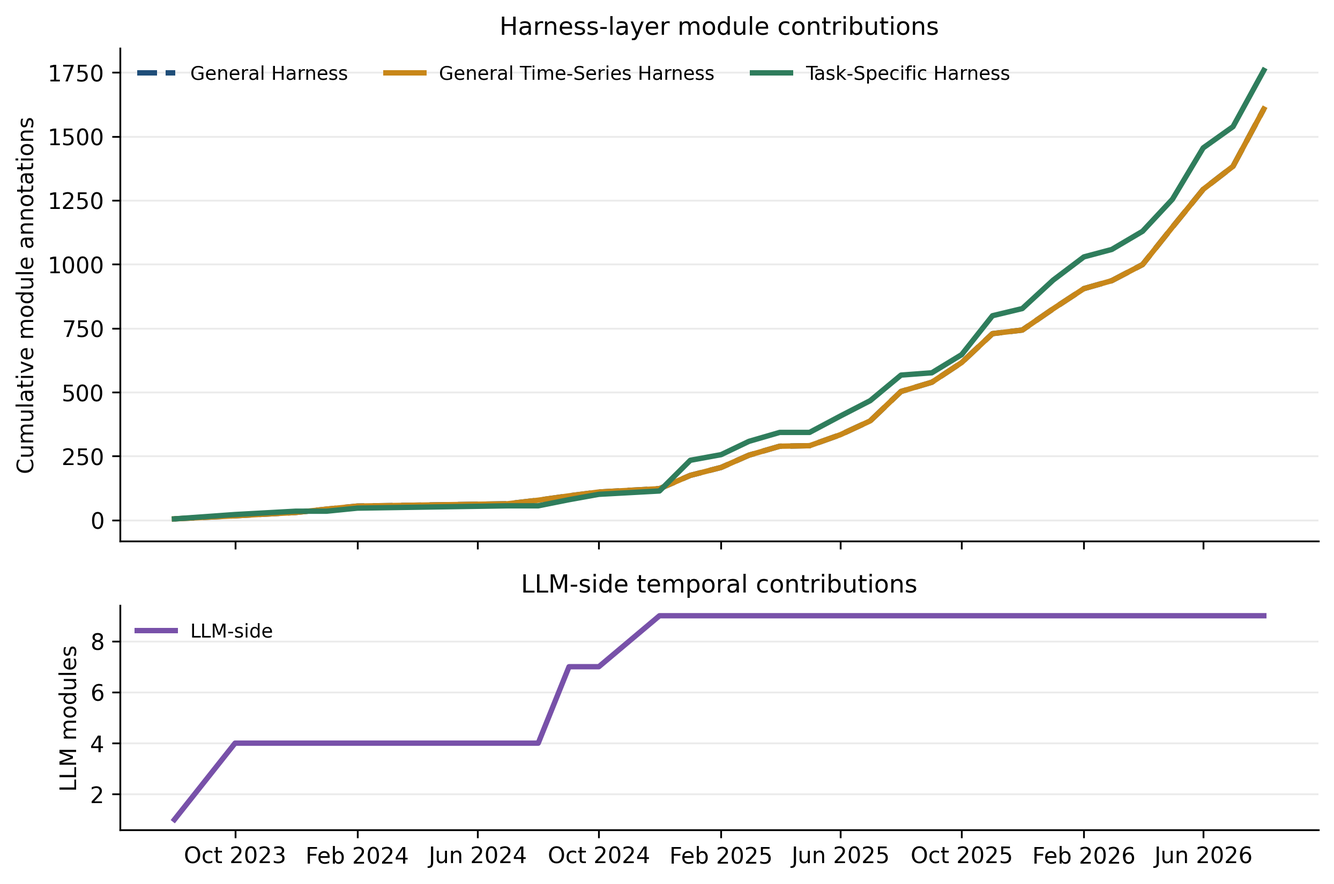
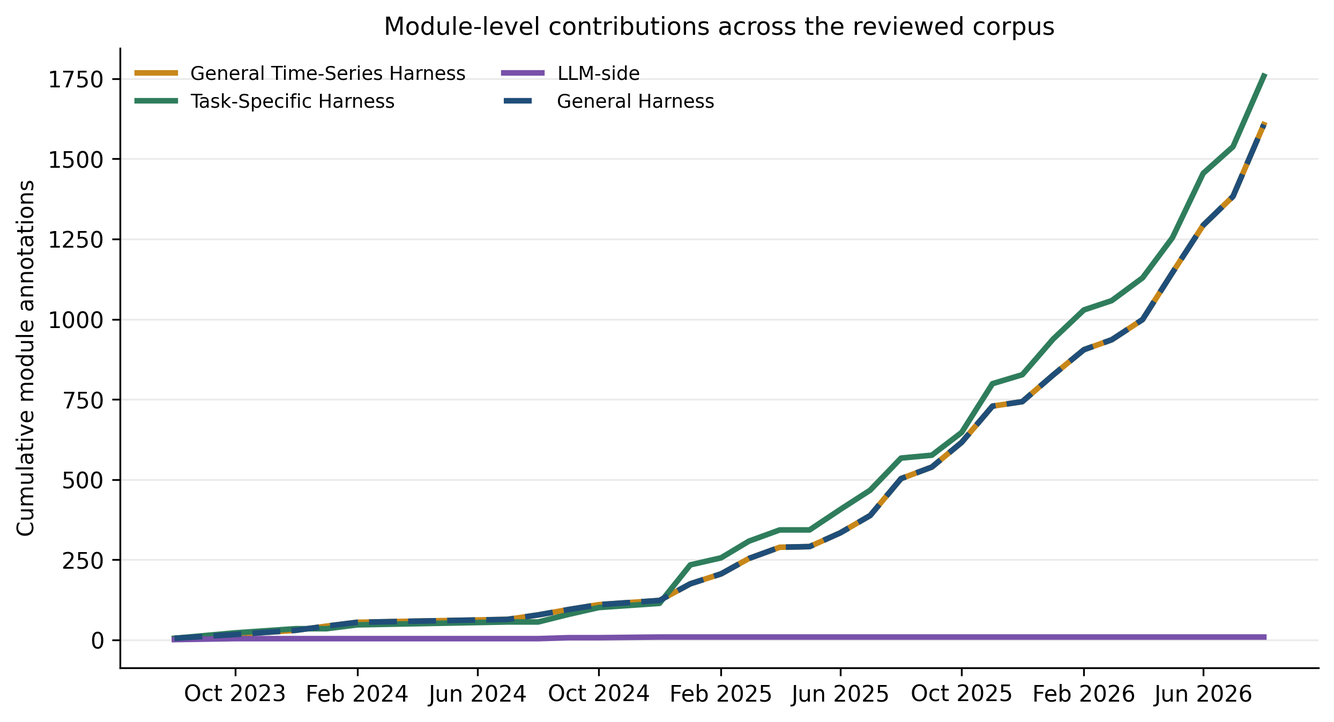
refine survey comparison and harness explanations

diff --git a/main.tex b/main.tex
@@ -109,6 +109,8 @@
 \newcommand{\typeBench}{\textsf{Benchmark}}
 \newcommand{\typeSMshort}{\textsf{S--M}}
 \newcommand{\typeBenchshort}{\textsf{Bench}}
+\newcommand{\yes}{\textcolor{surveyGreen}{\ensuremath{\checkmark}}}
+\newcommand{\no}{\textcolor{surveyGold}{\ensuremath{\times}}}
 \newcommand{\selfclaim}{\textsuperscript{\dag}}
 \newcommand{\RepoMoirai}{\textsuperscript{a}}
 \newcommand{\RepoLLMTSFD}{\textsuperscript{b}}
@@ -168,11 +170,8 @@ LLM agents provide a natural system abstraction for this broader workflow. In th
   bottom=10pt
 ]
 \[
-\begin{aligned}
-\textbf{LLM-based agent system} &\approx \text{LLM}+\text{Harness},\\
-\textbf{Time-Series Agent} &\approx \text{LLM}+\text{General Harness}\\
-&\quad +\text{Time-Series Harness Module}.
-\end{aligned}
+\resizebox{\linewidth}{!}{$\textbf{LLM-based agent} \approx \text{LLM}+\text{Harness},\qquad
+\textbf{Time-Series Agent} \approx \text{LLM}+\text{General Harness}+\text{Time-Series Harness Module}$.}
 \]
 \end{tcolorbox}
 
@@ -219,30 +218,29 @@ Several system and position papers further motivate this runtime perspective. AT
 
 \begingroup
 \scriptsize
-\setlength{\tabcolsep}{2.5pt}
-\renewcommand{\arraystretch}{1.08}
-\begin{longtable}{L{\fulltextcol{0.16}} L{\fulltextcol{0.19}} L{\fulltextcol{0.24}} L{\fulltextcol{0.20}} L{\fulltextcol{0.21}}}
-\caption{Comparison with related surveys and representative runtime frameworks.}
-\label{tab:direct-prior-comparison}\\
+\setlength{\tabcolsep}{3.5pt}
+\renewcommand{\arraystretch}{1.15}
+\begin{longtable}{L{\fulltextcol{0.22}} C{\fulltextcol{0.10}} C{\fulltextcol{0.09}} C{\fulltextcol{0.11}} C{\fulltextcol{0.12}} C{\fulltextcol{0.11}} C{\fulltextcol{0.12}} C{\fulltextcol{0.13}}}
+\caption{Coverage comparison with related surveys. A checkmark denotes an explicit organizing element; a cross denotes that the element is not the survey's organizing unit. ``Ours'' refers to this survey.}\label{tab:direct-prior-comparison}\\
 \toprule
-\textbf{Work} & \textbf{Scope / unit} & \textbf{Main organizing lens} & \textbf{Protocol / artifact} & \textbf{Relation to this survey}\\
+\textbf{Work} & \textbf{Agent runtime} & \textbf{LLM side} & \textbf{7 GH dims.} & \textbf{GTS/TSK} & \textbf{4 task families} & \textbf{Benchmarks} & \textbf{Module ledger}\\
 \midrule
 \endfirsthead
 \toprule
-\textbf{Work} & \textbf{Scope / unit} & \textbf{Main organizing lens} & \textbf{Protocol / artifact} & \textbf{Relation to this survey}\\
+\textbf{Work} & \textbf{Agent runtime} & \textbf{LLM side} & \textbf{7 GH dims.} & \textbf{GTS/TSK} & \textbf{4 task families} & \textbf{Benchmarks} & \textbf{Module ledger}\\
 \midrule
 \endhead
-From Prompts to Agents \citep{promptstoagents2026} & LLM-driven TS papers and methods & Passive prompting versus agentic systems; planning, reasoning, memory, tools, refinement & Survey and maintained resource repository & Maps paradigms and visible components rather than assigning a primary runtime contribution locus.\\
-Chang et al. \citep{changsurvey2026} & More than 100 TS-reasoning papers & One topology and one primary objective per paper, plus non-exclusive attribute tags & Explicit taxonomy and label definitions, work-level assignments, and repository & Closest primary-label precedent; codes execution topology and intent rather than contribution locus.\\
-LLM Agents for Time-Series \citep{chen2026tsagentsurvey} & Time-series agent literature & Agent architectures, task settings, evaluation, and research challenges & Survey of the emerging time-series-agent field & Broad field map; not a work-level primary-contribution-locus protocol.\\
-LLM-based Agents for Forecasting and Prediction \citep{xu2026forecastagentsurvey} & Forecasting and prediction agents & Methods, training, evaluation, and applications & Forecasting/prediction-focused survey & Narrows on forecasting and prediction agents rather than the cross-task runtime-locus question.\\
-ATSF \citep{atsf2026} & Forecasting process / position paper & Perception, planning, action, reflection, memory; workflow/RL/hybrid paradigms & Position and project resource, not a survey corpus & Articulates a forecasting-side agentic process framing; it is not designed as a cross-task literature-coding study.\\
-AION \citep{aion2026} & Realistic TS task and practical Harness & Task file, workspace, validation interface; Harness groups and review principles & Executable Harness, artifacts, traces, validation, case study & Builds one practical Harness; it is not designed to classify primary contributions across papers.\\
-TimeClaw \citep{timeclaw2026harness} & Contextualized TS task, trajectory, and memory & Executable temporal tools, capability evolution, episodic multimodal memory & Reference implementation, trajectories, memory banks, multi-benchmark evaluation & Implements a cross-task native runtime; it is not designed as a literature locus protocol.\\
-This survey & Enumerated cross-task work snapshot & Primary contribution locus (GH/GTS/TSK) plus secondary descriptions; seven-dimension/6-obligation crosswalk & Screening criteria, rubric, versioned ledger, evidence matrix, model sensitivity probes & Operationalizes and applies a literature-level attribution protocol rather than proposing the Harness concept itself.\\
+From Prompts to Agents \citep{promptstoagents2026} & \yes & \yes & \no & \no & \no & \no & \no\\
+Chang et al. \citep{changsurvey2026} & \yes & \yes & \no & \no & \no & \yes & \no\\
+LLM Agents for Time-Series \citep{chen2026tsagentsurvey} & \yes & \yes & \no & \no & \yes & \yes & \no\\
+LLM-based Agents for Forecasting \citep{xu2026forecastagentsurvey} & \yes & \yes & \no & \no & \no & \yes & \no\\
+This survey (\textbf{Ours}) & \yes & \yes & \yes & \yes & \yes & \yes & \yes\\
 \bottomrule
 \end{longtable}
 \endgroup
+
+\noindent\textit{Reading the table.} Existing surveys provide complementary views: agent mechanisms, reasoning topologies, task maps, or forecasting lifecycles. Our comparison adds an explicit runtime decomposition, a seven-dimension General Harness layer, a General-versus-Task-Specific Time-Series Harness distinction, a multi-label task view, and a module-level evidence ledger.
+
 
 The recent survey by Xu et al. organizes LLM-based forecasting and prediction agents around standalone LLMs, tool- and retrieval-augmented systems, and hybrid systems, while connecting methods to training, evaluation, applications, and risks \citep{xu2026forecastagentsurvey}. We include it as a direct competitor survey because it provides a forecasting-centered systems map and a careful account of contamination, leakage, calibration, cost, and deployment feedback. Its organizing unit is the forecasting/prediction system and its lifecycle; our organizing unit is the contribution locus of the underlying Harness. Thus its three system types are compatible with, but orthogonal to, our GH/GTS/TSK labels: a tool-augmented forecasting system may contribute to GH, GTS, TSK, or several of them depending on which mechanism the paper actually changes.
 
@@ -269,25 +267,7 @@ This survey makes four contributions.
 
 \section{What Is a Time-Series Agent?}
 
-A Time-Series Agent is a system in which an LLM operates through a reusable runtime and time-series-specific modules:
-
-\begin{tcolorbox}[
-  colback=surveyWarn,
-  colframe=surveyWarn,
-  boxrule=0pt,
-  arc=7pt,
-  left=12pt,
-  right=12pt,
-  top=10pt,
-  bottom=10pt
-]
-\[
-\begin{aligned}
-\textbf{Time-Series Agent}={}&\textbf{LLM}+\textbf{General Harness}\\
-&+\textbf{Time-Series Harness Module}.
-\end{aligned}
-\]
-\end{tcolorbox}
+A Time-Series Agent is a system in which an LLM operates through a reusable runtime and time-series-specific modules.
 
 The LLM supplies language understanding and reasoning. The General Harness supplies interaction, memory, tools, execution, control, planning, optimization, and coordination. The Time-Series Harness Module preserves temporal state, operations, context, and validation; statistical models, time-series foundation models, databases, simulators, retrieval systems, and evaluators operate as callable components within it.
 
@@ -344,63 +324,63 @@ The seven dimensions organize the evidence below. Each subsection first states t
 
 \subsection{Interface and Interaction}
 
-Inference interfaces expose the model's input state and intermediate reasoning; action interfaces turn a decision into a tool call or executable operation; environment modeling represents observations, artifacts, and feedback; user interaction supports natural-language requests and review; and the state--action loop connects successive steps. TS-Agent, TimeART, and TSAG instantiate these mechanisms with temporal analysis requests and executable analytical tools \citep{tsagent2025,timeart2026,tsag2026}.
+Inference interfaces expose the model's input state and intermediate reasoning; action interfaces turn a decision into a tool call or executable operation; environment modeling represents observations, artifacts, and feedback; user interaction supports natural-language requests and review; and the state--action loop connects successive steps. These interfaces define the boundary between a model response and an executable Agent action: they specify what state is visible, which actions are legal, and what result is returned for the next step. TS-Agent provides executable analysis actions; TimeART binds temporal analysis to a tool-using workflow; and TSAG couples temporal questions with structured analytical operations \citep{tsagent2025,timeart2026,tsag2026}. Together they show how a general interface becomes the entry point for a time-series-specific contract.
 
 \subsection{Memory and Context}
 
-Memory and context mechanisms preserve information across turns, retrieve prior cases, and expose relevant evidence. Time-series systems use event histories, prior trajectories, temporal fingerprints, and reusable analytical procedures in this layer \citep{agenticrag2024,timecap2025,timeclaw2026harness,forecastcompass2026}.
+Memory and context mechanisms preserve information across turns, retrieve prior cases, and expose relevant evidence. They can be working memory for the current trace, long-term memory for reusable experience, or shared state that coordinates several agents. Time-series systems use event histories, prior trajectories, temporal fingerprints, and reusable analytical procedures in this layer \citep{agenticrag2024,timecap2025,timeclaw2026harness,forecastcompass2026}.
 
 \subsection{Tools and Execution}
 
-Tools and execution expand the action space through code, statistical models, TSFMs, visualizers, retrievers, simulators, and validators. Forecasting and anomaly systems place these components behind callable interfaces so the LLM can select, execute, compare, and report them \citep{timeseriesscientist2025,timecopilot2026,argos2025,anomamind2026}.
+Tools and execution expand the action space through code, statistical models, TSFMs, visualizers, retrievers, simulators, and validators. A tool registry describes the inputs, outputs, permissions, and failure behavior of each capability; an execution environment then runs the call and returns an artifact or error that the Agent can inspect. Forecasting and anomaly systems place these components behind callable interfaces so the LLM can select, execute, compare, and report them \citep{timeseriesscientist2025,timecopilot2026,argos2025,anomamind2026}.
 
 \subsection{Control, Verification, and Feedback}
 
-Control and verification route feedback, enforce constraints, manage retries, and check intermediate or final artifacts. Representative systems use reflection, critic review, validation gates, and faithfulness checks to revise a trajectory or reject an invalid result \citep{flairr2025,tsag2026,veritime2026,tracebench2026}.
+Control and verification route feedback, enforce constraints, manage retries, and check intermediate or final artifacts. The controller determines when a trace may continue, when a tool must be retried, and when an output must be rejected or escalated. Representative systems use reflection, critic review, validation gates, and faithfulness checks to revise a trajectory or reject an invalid result \citep{flairr2025,tsag2026,veritime2026,tracebench2026}.
 
 \subsection{Planning and Workflow}
 
-Planning and workflow mechanisms decompose a request into data preparation, analysis, model selection, validation, reporting, and revision. Time-series agents use these mechanisms to connect tools and artifacts into a reproducible analysis procedure \citep{timeseriesscientist2025,timecap2025,climateagent2025,aion2026}.
+Planning and workflow mechanisms decompose a request into data preparation, analysis, model selection, validation, reporting, and revision. They make intermediate states explicit, choose a tool sequence, record stopping conditions, and preserve the artifacts required to reproduce the result. Time-series agents use these mechanisms to connect tools and artifacts into a reproducible analysis procedure \citep{timeseriesscientist2025,timecap2025,climateagent2025,aion2026}.
 
 \subsection{Optimization and Evolution}
 
-Optimization and evolution improve prompts, tools, policies, memories, or trajectories using feedback. TimeClaw, MetaCaster, CastFSR, and related systems treat experience, validation outcomes, or execution traces as material for capability improvement \citep{timeclaw2026explore,metacaster2026,castfsr2026,crafter2026}.
+Optimization and evolution improve prompts, tools, policies, memories, or trajectories using feedback. The update can be offline prompt or policy search, trajectory-level reflection, or a self-evolving Harness that promotes a new component after validation. TimeClaw, MetaCaster, CastFSR, and related systems treat experience, validation outcomes, or execution traces as material for capability improvement \citep{timeclaw2026explore,metacaster2026,castfsr2026,crafter2026}.
 
 \subsection{Coordination and Scaling}
 
-Coordination and scaling divide work among specialized roles, share state, and combine review or debate. Multi-agent time-series systems use numeric, visual, textual, analyst, reviewer, and executor roles to construct a joint result \citep{tsdebate2026,mas4ts2026,aimeteorologist2025,fincon2024}.
+Coordination and scaling divide work among specialized roles, share state, and combine review or debate. Coordination may be cooperative, competitive, or hierarchical; the shared state and handoff protocol determine whether the final result is consistent and auditable. Multi-agent time-series systems use numeric, visual, textual, analyst, reviewer, and executor roles to construct a joint result \citep{tsdebate2026,mas4ts2026,aimeteorologist2025,fincon2024}.
 \section{General Time-Series Harness}
 \label{sec:general-ts-harness}
 
-The General Time-Series Harness is the time-series specialization of the seven General Harness dimensions. We include a mechanism here only when its core representation, operation, or validator depends on temporal order, index, frequency, window, horizon, regime, availability time, or leakage control. A generic chat loop, Python call, or reflection step remains General Harness.
+The General Time-Series Harness is the time-series specialization of the seven General Harness dimensions. We include a mechanism here only when its core representation, operation, or validator depends on temporal order, index, frequency, window, horizon, regime, availability time, or leakage control. This criterion follows the temporal contracts emphasized in recent time-series-agent surveys and reasoning taxonomies \citep{chen2026tsagentsurvey,changsurvey2026}. A generic chat loop, Python call, or reflection step remains General Harness.
 
 \subsection{Interface and Interaction}
 
-Time-series interfaces expose as-of time, horizon, frequency, window, channel, and unit semantics. An action such as slice, align, aggregate, or forecast carries temporal arguments that determine what information is available and what output contract is produced.
+Time-series interfaces expose as-of time, horizon, frequency, window, channel, and unit semantics. An action such as slice, align, aggregate, or forecast carries temporal arguments that determine what information is available and what output contract is produced. Temporal analysis systems make these arguments explicit through executable requests and structured outputs \citep{tsagent2025,timeart2026,tsag2026}.
 
 \subsection{Memory and Context}
 
-Temporal memory preserves time-indexed state, missingness, provenance, data vintage, event history, and revision records. The state remains queryable as it was known at a declared time, which distinguishes it from an ordinary conversation buffer.
+Temporal memory preserves time-indexed state, missingness, provenance, data vintage, event history, and revision records. The state remains queryable as it was known at a declared time, which distinguishes it from an ordinary conversation buffer. Event histories, retrieved context, temporal fingerprints, and prior trajectories therefore become structured evidence that can be replayed and checked rather than an undifferentiated prompt. TimeClaw and ForecastCompass illustrate this direction through episodic experience and adaptive temporal memory, while financial systems use layered market memory to preserve point-in-time evidence \citep{timeclaw2026harness,forecastcompass2026,finmem2023,memcast2026}.
 
 \subsection{Tools and Execution}
 
-Time-series tools implement temporal slicing, resampling, aggregation, decomposition, backtesting, forecasting, anomaly localization, imputation, and context alignment. Their semantics must specify intervals, horizons, time zones, units, and missing-data behavior.
+Time-series tools implement temporal slicing, resampling, aggregation, decomposition, backtesting, forecasting, anomaly localization, imputation, and context alignment. Their semantics must specify intervals, horizons, time zones, units, and missing-data behavior. TimeSeriesScientist and TimeCopilot expose model and analysis selection as callable operations; related systems connect these operations to simulators, retrievers, or specialized temporal models \citep{timeseriesscientist2025,timecopilot2026,argos2025,anomamind2026}. The temporal tool boundary is consequently where numerical fidelity and chronological admissibility become executable checks.
 
 \subsection{Control, Verification, and Feedback}
 
-Temporal control checks chronological splits, allowed-context policies, leakage, units, frequency, drift, uncertainty, and evidence completeness. These checks operate on the temporal contract of the runtime, not only on the final task score.
+Temporal control checks chronological splits, allowed-context policies, leakage, units, frequency, drift, uncertainty, and evidence completeness. These checks operate on the temporal contract of the runtime, not only on the final task score. A validator can reject a future-leaking retrieval, an invalid window, an inconsistent unit conversion, or an unsupported probabilistic claim before the result reaches a user. AION, VeriTime, and TraceBench make this process-level view explicit through validation interfaces, temporal checks, and auditable traces \citep{aion2026,veritime2026,tracebench2026}.
 
 \subsection{Planning and Workflow}
 
-Temporal workflows schedule rolling-origin evaluation, horizon-aware model selection, context retrieval by availability time, forecast revision, incident escalation, and report generation. The planning state therefore carries temporal checkpoints and reproducible data boundaries.
+Temporal workflows schedule rolling-origin evaluation, horizon-aware model selection, context retrieval by availability time, forecast revision, incident escalation, and report generation. The planning state therefore carries temporal checkpoints and reproducible data boundaries. ATSF frames forecasting as an iterative perception--planning--action--reflection--memory process, while AION and ForecastCompass connect task files, adaptive memory, model selection, and validation into a repeatable workflow \citep{atsf2026,aion2026,forecastcompass2026}.
 
 \subsection{Optimization and Evolution}
 
-Temporal optimization uses regimes, temporal experience, shifting distributions, and revision outcomes to update prompts, tools, memories, or policies. A reusable mechanism must preserve its temporal contract when the downstream task changes.
+Temporal optimization uses regimes, temporal experience, shifting distributions, and revision outcomes to update prompts, tools, memories, or policies. A reusable mechanism must preserve its temporal contract when the downstream task changes. TimeClaw, MetaCaster, and CastFSR treat execution experience, validation outcomes, or traces as signals for improving temporal capabilities; the update itself must remain auditable under distribution shift \citep{timeclaw2026explore,metacaster2026,castfsr2026,crafter2026}.
 
 \subsection{Coordination and Scaling}
 
-Multi-agent temporal coordination shares aligned series, event windows, provenance, and evidence identifiers across numeric, visual, textual, planning, and review roles. Without a common temporal state, coordination can produce internally consistent but temporally misaligned conclusions.
+Multi-agent temporal coordination shares aligned series, event windows, provenance, and evidence identifiers across numeric, visual, textual, planning, and review roles. Without a common temporal state, coordination can produce internally consistent but temporally misaligned conclusions. FinCon, MAS4TS, and ClimateAgent illustrate complementary forms of role specialization, shared evidence, and review across financial, general time-series, and climate workflows \citep{fincon2024,mas4ts2026,climateagent2025}.
 
 \subsection{Cross-dimensional temporal requirements}
 
@@ -423,19 +403,19 @@ Task-specific Harness modules instantiate the General Time-Series Harness under 
 
 \subsection{Forecasting and Prediction}
 
-Forecasting agents manage horizons, chronological splits, model selection, probabilistic outputs, revision, and deployment constraints. Forecasting workflows combine temporal tools and memory with task-bound backtesting, forecast reconciliation, and revision rules \citep{timeseriesscientist2025,timecap2025,timecopilot2026,lastmile2026,hydroagent2026,castflow2026}.
+Forecasting agents manage horizons, chronological splits, model selection, probabilistic outputs, revision, and deployment constraints. The interface exposes the forecast origin, horizon, frequency, and target channels; memory preserves point-in-time covariates, prior forecasts, and revisions; and tools provide model fitting, backtesting, ensembling, and reconciliation. The task-specific control layer checks leakage, horizon alignment, calibration, and deployment thresholds, while planning and optimization choose a rolling-origin procedure and revise the workflow when evidence changes. Forecasting workflows combine temporal tools and memory with task-bound backtesting, forecast reconciliation, and revision rules \citep{timeseriesscientist2025,timecap2025,timecopilot2026,lastmile2026,hydroagent2026,castflow2026}.
 
 \subsection{Data Augmentation and Synthesis}
 
-Augmentation and synthesis agents generate, select, or validate temporal data and representations. Their task contract specifies the target distribution, conditioning context, fidelity checks, and downstream utility; the task-specific module is the generator--validator loop rather than generic generation alone \citep{liu2025synthetic,bridge2025,merit2025,scenariodiff2026}.
+Augmentation and synthesis agents generate, select, or validate temporal data and representations. Their interface declares the conditioning window, channels, sampling frequency, and intended use; memory records source series, transformations, and provenance; and tools implement perturbation, simulation, retrieval, or generative modeling. Control and verification compare generated trajectories with the target distribution, temporal dependence, missingness pattern, and downstream task utility. Planning determines which views or scenarios to generate, whereas optimization adapts the generator or selection policy from validation feedback. Their task contract therefore specifies the target distribution, conditioning context, fidelity checks, and downstream utility; the task-specific module is the generator--validator loop rather than generic generation alone \citep{liu2025synthetic,bridge2025,merit2025,scenariodiff2026}.
 
 \subsection{Anomaly Detection and Diagnosis}
 
-Anomaly agents localize events, propose or verify rules, retrieve incident evidence, diagnose causes, and support remediation. The task-specific contract includes windows, thresholds, root-cause labels, alert policies, and deployment gates \citep{argos2025,anomamind2026,chatad2026,sagead2026,ji2025lemad,wang2026large}.
+Anomaly agents localize events, propose or verify rules, retrieve incident evidence, diagnose causes, and support remediation. Their interface fixes the monitoring window, channels, sampling rate, and alert horizon; memory links an event to historical baselines, prior incidents, and maintenance records; and tools support scoring, localization, root-cause analysis, and simulation. Control and verification must distinguish a novel observation from a delayed label, check false-alarm budgets, and require evidence for a diagnosis before remediation is recommended. Planning coordinates detection, evidence retrieval, diagnosis, and escalation, while multi-agent systems may separate numeric scoring, semantic interpretation, and review. The task-specific contract includes windows, thresholds, root-cause labels, alert policies, and deployment gates \citep{argos2025,anomamind2026,chatad2026,sagead2026,ji2025lemad,wang2026large}.
 
 \subsection{Decision Support}
 
-Decision-support agents connect forecasts or diagnoses to actions under costs, constraints, uncertainty, and review requirements. Trading, traffic control, energy, climate, and health systems illustrate how a predictive output becomes a recommendation, policy, escalation, or operational record \citep{fincon2024,tradingagents2024,collmllight2026,climateagent2025,smartenergyagent2026}.
+Decision-support agents connect forecasts or diagnoses to actions under costs, constraints, uncertainty, and review requirements. The interface represents the current state, available actions, timing, and authority; memory retains forecasts, observations, policies, and prior outcomes; and tools expose simulators, optimizers, external data, and human-review channels. Planning maps predictive or diagnostic evidence to a sequence of actions, while control checks risk limits, counterfactual consequences, and escalation rules. Coordination becomes important when specialists debate a recommendation or when a decision must be audited by a human operator. Trading, traffic control, energy, climate, and health systems illustrate how a predictive output becomes a recommendation, policy, escalation, or operational record \citep{fincon2024,tradingagents2024,collmllight2026,climateagent2025,smartenergyagent2026}.
 
 The complete corpus is multi-label: a work may contribute to several Harness dimensions and several task families. The maintained ledger records the LLM-side contribution, the General Harness modules, the genuinely time-series-specific modules, and the task-specific modules separately.
 \section{Infrastructure and Benchmarks for Time-Series Agents}

diff --git a/scripts/make_contribution_timeline.py b/scripts/make_contribution_timeline.py
@@ -79,28 +79,23 @@ def main() -> None:
         "LLM-side": "#7851a9",
     }
     plt.rcParams.update({"font.size": 10, "axes.titlesize": 11, "axes.labelsize": 10})
-    fig, (ax_top, ax_bottom) = plt.subplots(
-        2, 1, figsize=(8.4, 5.6), sharex=True, gridspec_kw={"height_ratios": [2.2, 1]}
-    )
-    ax_top.plot(dates, cumulative["General Harness"], lw=2.4, ls="--", label="General Harness", color=colors["General Harness"])
-    ax_top.plot(dates, cumulative["General Time-Series Harness"], lw=2.4, label="General Time-Series Harness", color=colors["General Time-Series Harness"])
-    ax_top.plot(dates, cumulative["Task-Specific Harness"], lw=2.4, label="Task-Specific Harness", color=colors["Task-Specific Harness"])
-    ax_top.set_ylabel("Cumulative module annotations")
-    ax_top.set_title("Harness-layer module contributions")
-    ax_top.legend(frameon=False, ncol=3, loc="upper left", fontsize=8.5)
-    ax_top.grid(axis="y", alpha=0.25)
-    ax_top.spines[["top", "right"]].set_visible(False)
-
-    ax_bottom.plot(dates, cumulative["LLM-side"], lw=2.4, color=colors["LLM-side"], label="LLM-side")
-    ax_bottom.set_ylabel("LLM modules")
-    ax_bottom.set_title("LLM-side temporal contributions")
-    ax_bottom.legend(frameon=False, loc="upper left", fontsize=8.5)
-    ax_bottom.grid(axis="y", alpha=0.25)
-    ax_bottom.spines[["top", "right"]].set_visible(False)
-    ax_bottom.xaxis.set_major_locator(mdates.MonthLocator(interval=4))
-    ax_bottom.xaxis.set_major_formatter(mdates.DateFormatter("%b %Y"))
+    fig, ax = plt.subplots(figsize=(8.4, 4.6))
+    # Draw the solid curves first and the dashed General-Harness curve last.
+    # This keeps both labels visible even where the ledger records the same
+    # reusable module at the GH and GTS layers.
+    ax.plot(dates, cumulative["General Time-Series Harness"], lw=2.5, label="General Time-Series Harness", color=colors["General Time-Series Harness"], zorder=2)
+    ax.plot(dates, cumulative["Task-Specific Harness"], lw=2.5, label="Task-Specific Harness", color=colors["Task-Specific Harness"], zorder=3)
+    ax.plot(dates, cumulative["LLM-side"], lw=2.5, label="LLM-side", color=colors["LLM-side"], zorder=4)
+    ax.plot(dates, cumulative["General Harness"], lw=2.5, ls="--", dashes=(5, 2), label="General Harness", color=colors["General Harness"], zorder=5)
+    ax.set_ylabel("Cumulative module annotations")
+    ax.set_title("Module-level contributions across the reviewed corpus")
+    ax.legend(frameon=False, ncol=2, loc="upper left", fontsize=8.5)
+    ax.grid(axis="y", alpha=0.25)
+    ax.spines[["top", "right"]].set_visible(False)
+    ax.xaxis.set_major_locator(mdates.MonthLocator(interval=4))
+    ax.xaxis.set_major_formatter(mdates.DateFormatter("%b %Y"))
     fig.autofmt_xdate(rotation=0, ha="center")
-    fig.tight_layout(h_pad=1.1)
+    fig.tight_layout()
     fig.savefig(OUT_PNG, dpi=300, bbox_inches="tight")
     plt.close(fig)
 
